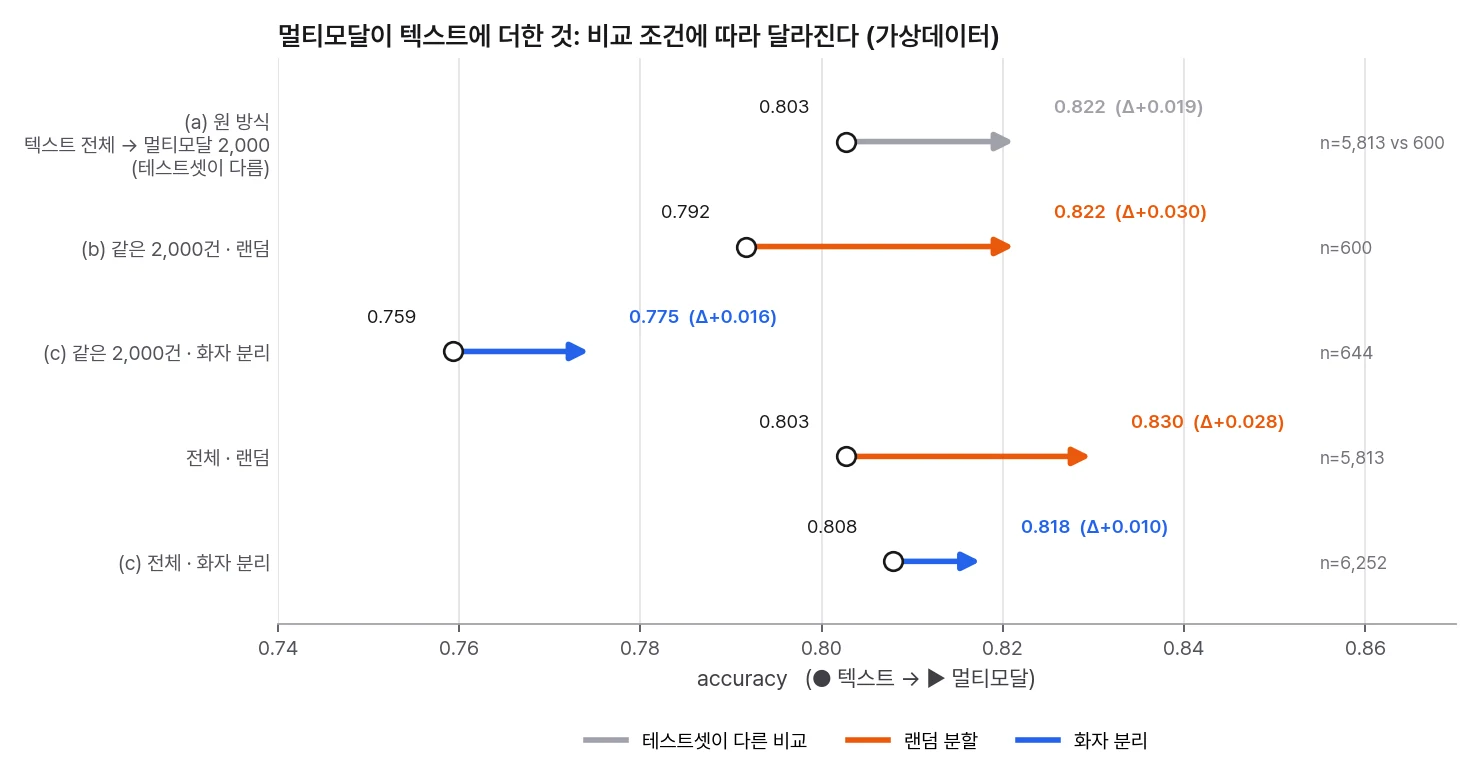
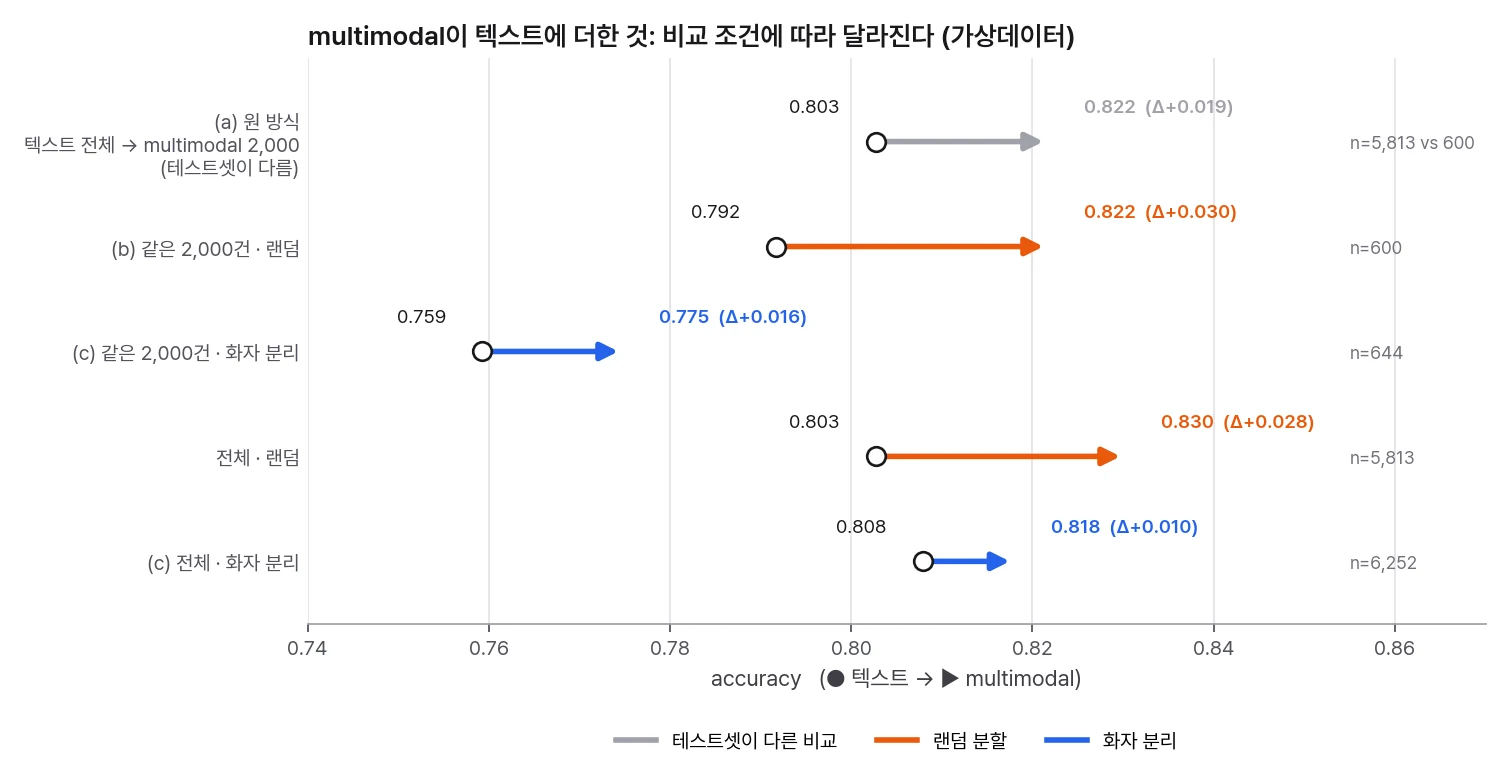
그림 라벨 영어화: depression 07 fig4~8, loyal 08 fig4·fig5

diff --git a/depression-emotion-multimodal-mentalhealth/notebooks/07_site_figures.py b/depression-emotion-multimodal-mentalhealth/notebooks/07_site_figures.py
@@ -119,7 +119,7 @@ res = pd.read_csv(RESULTS / "multimodal_protocols.csv")
 def g(protocol, data, model, col="accuracy"):
     return res[(res.protocol == protocol) & (res.data == data) & (res.model == model)][col].iloc[0]
 arrows = [
-    ("(a) 원 방식\n텍스트 전체 → 멀티모달 2,000\n(테스트셋이 다름)", g("a_original", "all_19374", "text"), g("a_original", "sub_2000", "multimodal"),
+    ("(a) 원 방식\n텍스트 전체 → multimodal 2,000\n(테스트셋이 다름)", g("a_original", "all_19374", "text"), g("a_original", "sub_2000", "multimodal"),
      f"n={g('a_original','all_19374','text','n_test'):,} vs {g('a_original','sub_2000','multimodal','n_test'):,}", GRAY),
     ("(b) 같은 2,000건 · 랜덤", g("b_same_subset", "sub_2000", "text"), g("b_same_subset", "sub_2000", "multimodal"),
      f"n={g('b_same_subset','sub_2000','text','n_test'):,}", ORANGE),
@@ -138,8 +138,8 @@ for i, (lab, a, b, n, col) in enumerate(arrows[::-1]):
     ax.text(b + 0.004, i + 0.28, f"{b:.3f}  (Δ{b - a:+.3f})", ha="left", fontsize=8.5, color=col, fontweight="semibold")
     ax.text(0.855, i - 0.02, n, va="center", fontsize=8, color=MUTED)
 ax.set_yticks(range(len(arrows))); ax.set_yticklabels([a[0] for a in arrows[::-1]], fontsize=9)
-ax.set_xlim(0.74, 0.87); ax.set_ylim(-0.6, len(arrows) - 0.2); ax.set_xlabel("accuracy   (● 텍스트 → ▶ 멀티모달)")
-ax.set_title("멀티모달이 텍스트에 더한 것: 비교 조건에 따라 달라진다 (가상데이터)")
+ax.set_xlim(0.74, 0.87); ax.set_ylim(-0.6, len(arrows) - 0.2); ax.set_xlabel("accuracy   (● 텍스트 → ▶ multimodal)")
+ax.set_title("multimodal이 텍스트에 더한 것: 비교 조건에 따라 달라진다 (가상데이터)")
 ax.tick_params(axis="y", length=0); ax.spines["left"].set_visible(False); ax.grid(axis="x")
 ax.legend(handles=[Line2D([], [], color=GRAY, lw=2.5, label="테스트셋이 다른 비교"),
                    Line2D([], [], color=ORANGE, lw=2.5, label="랜덤 분할"),
@@ -151,20 +151,20 @@ save(fig, "fig4_protocols")
 agg = pd.read_csv(RESULTS / "multimodal_n_curve.csv")
 gap = pd.read_csv(RESULTS / "multimodal_n_curve_gain.csv")
 fig, (ax1, ax2) = plt.subplots(2, 1, figsize=(8.5, 6.2), sharex=True, gridspec_kw={"height_ratios": [2, 1]})
-style = {("random", "text"): (GRAY, "--", "텍스트 · 랜덤"), ("random", "multimodal"): (BLUE, "--", "멀티모달 · 랜덤"),
-         ("speaker", "text"): (GRAY, "-", "텍스트 · 화자 분리"), ("speaker", "multimodal"): (BLUE, "-", "멀티모달 · 화자 분리")}
+style = {("random", "text"): (GRAY, "--", "텍스트 · 랜덤"), ("random", "multimodal"): (BLUE, "--", "multimodal · 랜덤"),
+         ("speaker", "text"): (GRAY, "-", "텍스트 · 화자 분리"), ("speaker", "multimodal"): (BLUE, "-", "multimodal · 화자 분리")}
 for (how, model), (c, ls, lab) in style.items():
     a = agg[(agg.split == how) & (agg.model == model)]
     ax1.plot(a.n, a["mean"], color=c, ls=ls, marker="o", ms=4, lw=1.7, label=lab)
     ax1.fill_between(a.n, a["mean"] - a["std"], a["mean"] + a["std"], color=c, alpha=0.12, lw=0)
-ax1.set_xscale("log"); ax1.set_ylabel("accuracy (시드 3개, 밴드 = ±1 std)"); ax1.legend(ncol=2, loc="lower right")
+ax1.set_xscale("log"); ax1.set_ylabel("accuracy (seed 3개, 밴드 = ±1 std)"); ax1.legend(ncol=2, loc="lower right")
 ax1.axvline(2000, color=MUTED, ls=":", lw=1)
-ax1.text(2000, ax1.get_ylim()[1] - 0.004, " 원 프로젝트의 멀티모달 N", fontsize=8.5, color=MUTED, va="top")
+ax1.text(2000, ax1.get_ylim()[1] - 0.004, " 원 프로젝트의 multimodal N", fontsize=8.5, color=MUTED, va="top")
 ax1.grid(axis="y")
 for how, c, ls, lab in [("random", ORANGE, "--", "랜덤 분할"), ("speaker", BLUE, "-", "화자 분리")]:
     gg = gap[gap.split == how]
     ax2.plot(gg.n, gg.gain, color=c, marker="o", ms=4, ls=ls, lw=1.7, label=lab)
-ax2.axhline(0, color=DARK, lw=0.8); ax2.set_ylabel("멀티모달 − 텍스트"); ax2.set_xlabel("학습에 쓴 발화 수 N (log)")
+ax2.axhline(0, color=DARK, lw=0.8); ax2.set_ylabel("multimodal − 텍스트"); ax2.set_xlabel("학습에 쓴 발화 수 N (log)")
 ax2.legend(); ax2.grid(axis="y")
 ax1.set_title("N과 분할 방식에 따른 accuracy, 그리고 음성이 더한 것")
 fig.tight_layout()
@@ -176,7 +176,7 @@ diff = pd.read_csv(RESULTS / "confusion_diff_multimodal_minus_text.csv", index_c
 ang = np.linspace(0, 2 * np.pi, len(EMOTIONS), endpoint=False).tolist(); ang += ang[:1]
 fig = plt.figure(figsize=(11.5, 4.8))
 ax = fig.add_subplot(1, 2, 1, polar=True)
-for col, c, lab in [("text_recall", GRAY, "텍스트"), ("multimodal_recall", BLUE, "멀티모달")]:
+for col, c, lab in [("text_recall", GRAY, "텍스트"), ("multimodal_recall", BLUE, "multimodal")]:
     v = per[col].tolist(); v += v[:1]
     ax.plot(ang, v, color=c, lw=2, label=lab); ax.fill(ang, v, color=c, alpha=0.12)
 ax.set_xticks(ang[:-1]); ax.set_xticklabels(EMOTIONS, fontsize=9, color=DARK)
@@ -193,7 +193,7 @@ for i in range(7):
         v = diff.values[i, j]
         if v != 0:
             ax2.text(j, i, f"{v:+d}", ha="center", va="center", fontsize=7.5, color="white" if abs(v) > lim * 0.55 else DARK)
-ax2.set_xlabel("예측"); ax2.set_ylabel("정답"); ax2.set_title("혼동행렬 차이: 멀티모달 − 텍스트 (건수)")
+ax2.set_xlabel("예측"); ax2.set_ylabel("정답"); ax2.set_title("혼동행렬 차이: multimodal − 텍스트 (건수)")
 for s in ("top", "right", "left", "bottom"):
     ax2.spines[s].set_visible(False)
 ax2.tick_params(length=0)
@@ -217,7 +217,7 @@ fig, axes = plt.subplots(1, 2, figsize=(11, 4.4), sharex=True, sharey=True)
 spk_colors = dict(zip(top_spk, CAT8))
 emo_colors = dict(zip(EMOTIONS, CAT8))
 axes[0].scatter(P[:, 0], P[:, 1], c=[spk_colors[s] for s in sub.speaker_id], s=10, alpha=0.75, lw=0)
-axes[0].set_title("음성 피처 PCA: 화자별 색 (상위 8명)")
+axes[0].set_title("음성 feature PCA: 화자별 색 (상위 8명)")
 axes[1].scatter(P[:, 0], P[:, 1], c=[emo_colors[e] for e in sub.emotion_label], s=10, alpha=0.75, lw=0)
 axes[1].set_title("같은 점: 감정별 색")
 for ax in axes:
@@ -247,9 +247,9 @@ for t, c in tok_contrib:
     ax1.text(x + w / 2, 0.2, f"{c:+.2f}", ha="center", va="center", fontsize=8.5, color=DARK)
     x += w + 0.012
 ax1.set_xlim(0, max(1, x)); ax1.set_ylim(0, 1); ax1.axis("off")
-ax1.set_title(f"로컬: 예문 한 건의 토큰별 sadness 기여 (정답 감정 = {true_emo}, truth_depressed = {true_dep})", fontsize=10.5)
+ax1.set_title(f"local: 예문 한 건의 토큰별 sadness 기여 (정답 감정 = {true_emo}, truth_depressed = {true_dep})", fontsize=10.5)
 ax2.barh([f"'{f.strip()}'" for f in glob_sad.feature[::-1]], glob_sad.coef[::-1], color=BLUE, height=0.68)
-ax2.set_xlabel("LR coef (sadness, char n-gram)"); ax2.set_title("전역: sadness 상위 피처 (8위 안, 같은 계수는 하나로). '외롭', '무의미'는 없다", fontsize=10.5)
+ax2.set_xlabel("LR coef (sadness, char n-gram)"); ax2.set_title("global: sadness 상위 feature (8위 안, 같은 계수는 하나로). '외롭', '무의미'는 없다", fontsize=10.5)
 ax2.tick_params(axis="y", length=0); ax2.spines["left"].set_visible(False); ax2.grid(axis="x")
 fig.tight_layout()
 save(fig, "fig8_local_vs_global")
